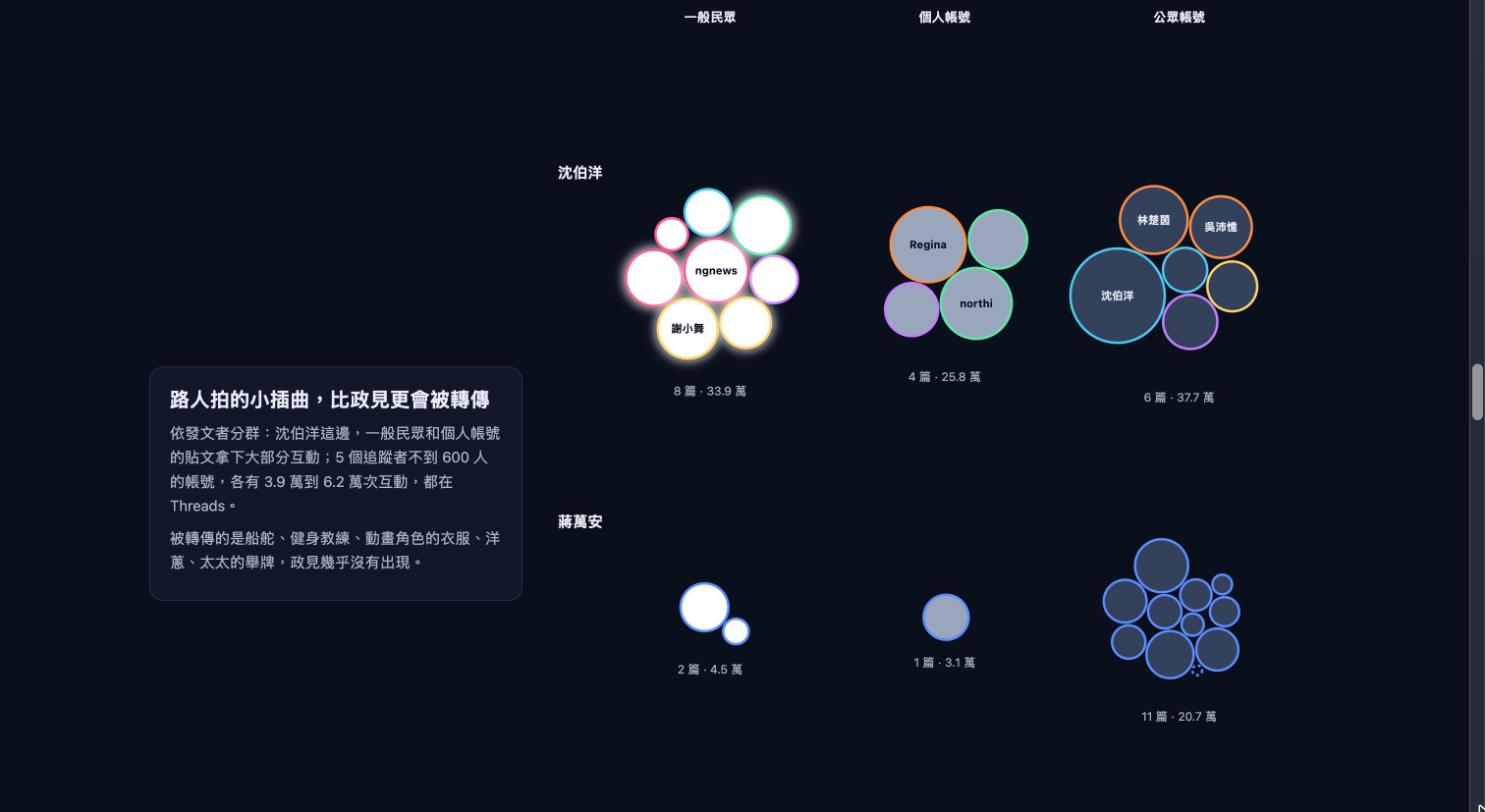
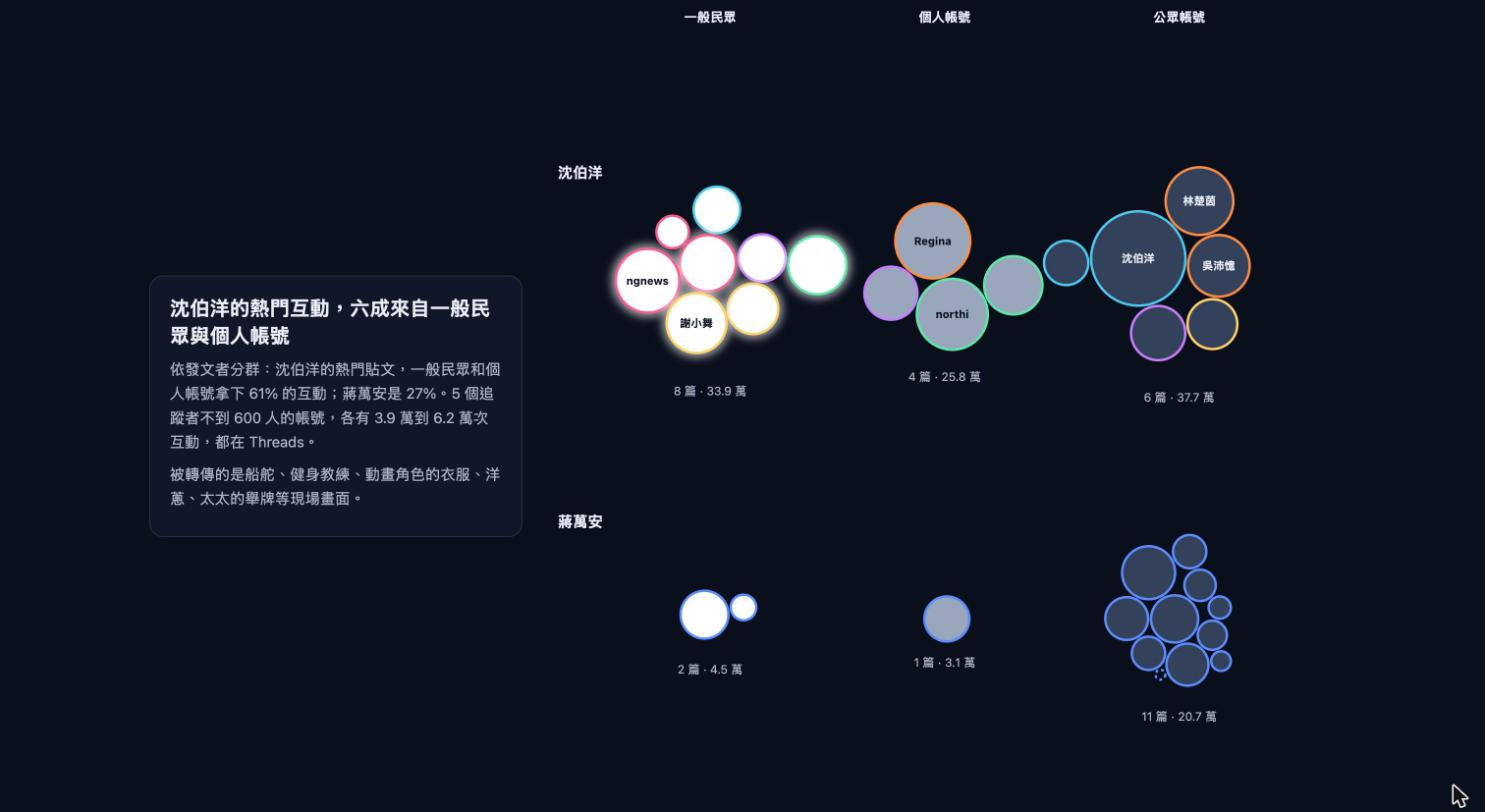
用字改為中性、倍數圖改對數刻度、探索區圖表編號
- 標題與敘事段落拿掉「只」「比政見更會被轉傳」等評價字眼，改寫成數字陳述；「重做」改為「重構」
- 當天 vs 前 3 天的啞鈴圖改用對數刻度，刻度每格 1.25 倍，線長對應倍數
- 探索區五張圖加上「圖 1」到「圖 5」，README 同步
- 截圖 03 換成新用字版本

diff --git a/index.html b/index.html
@@ -3,7 +3,7 @@
 <head>
 <meta charset="utf-8">
 <meta name="viewport" content="width=device-width,initial-scale=1">
-<title>台北大洋流：車掃熱度只延續兩三天｜新聞視覺化 HW3</title>
+<title>台北大洋流：車掃熱度約延續兩三天｜新聞視覺化 HW3</title>
 <link rel="icon" href="data:,">
 <link rel="stylesheet" href="styles.css">
 <script defer src="vendor/d3.v7.9.0.min.js"></script>
@@ -18,8 +18,8 @@
 <body>
 <main class="viz-root">
   <header class="page-head">
-    <p class="kicker">新聞視覺化 HW3 · 重做 QSearch〈街頭陸戰遇上網路空戰〉的圖表</p>
-    <h1>台北大洋流：<br>車掃熱度只延續兩三天，被轉傳的多是路人拍的小插曲</h1>
+    <p class="kicker">新聞視覺化 HW3 · 重構 QSearch〈街頭陸戰遇上網路空戰〉的圖表</p>
+    <h1>台北大洋流：<br>車掃熱度約延續兩三天，沈伯洋的熱門互動多來自一般民眾與個人帳號</h1>
     <p class="lead">沈伯洋 10/11–11/15 開著車隊跑了 6 場車掃，蔣萬安同期走夜市與市場。往下捲，看社群上的討論怎麼一波波流過台北。</p>
     <p class="scroll-hint" aria-hidden="true">往下捲 ↓</p>
   </header>
@@ -44,12 +44,12 @@
         <p><button type="button" class="replay-btn">↻ 重播</button></p>
       </article>
       <article class="story-step">
-        <h2>熱度只延續兩三天</h2>
-        <p>把 6 場都對齊到「車掃當天＝100%」：隔天大多還有當天的 7 到 10 成，3 天後只剩 2 到 3 成。</p>
+        <h2>熱度約延續兩三天</h2>
+        <p>把 6 場都對齊到「車掃當天＝100%」：隔天大多還有當天的 7 到 10 成，3 天後是 2 到 3 成。</p>
         <p>6 場車掃分散在五週裡，每一場都再把討論推高一次。要讓熱度不斷，得靠事件一波接一波。</p>
       </article>
       <article class="story-step">
-        <h2>車掃當天，總討論只多了 3%～27%</h2>
+        <h2>車掃當天，總討論是前 3 天的 1.03～1.27 倍</h2>
         <p>看所有「提到沈伯洋」的討論，車掃當天是前 3 天平均的 1.03 到 1.27 倍；沒有車掃的週末大約是 0.99 倍。</p>
         <p>10/31 中午有首場電視辯論、11/1 的前 3 天包含辯論日，這兩場分不出是辯論還是車掃帶動，不列入比較。</p>
       </article>
@@ -59,12 +59,12 @@
         <p>白色泡泡是一般民眾，加光暈的是追蹤者不到 600 人的帳號。外圈顏色是場次，藍色外圈是蔣萬安。</p>
       </article>
       <article class="story-step">
-        <h2>路人拍的小插曲，比政見更會被轉傳</h2>
-        <p>依發文者分群：沈伯洋的熱門貼文，一般民眾和個人帳號拿下 61% 的互動；蔣萬安只有 27%。5 個追蹤者不到 600 人的帳號，各有 3.9 萬到 6.2 萬次互動，都在 Threads。</p>
-        <p>被轉傳的是船舵、健身教練、動畫角色的衣服、洋蔥、太太的舉牌，政見幾乎沒有出現。</p>
+        <h2>沈伯洋的熱門互動，六成來自一般民眾與個人帳號</h2>
+        <p>依發文者分群：沈伯洋的熱門貼文，一般民眾和個人帳號拿下 61% 的互動；蔣萬安是 27%。5 個追蹤者不到 600 人的帳號，各有 3.9 萬到 6.2 萬次互動，都在 Threads。</p>
+        <p>被轉傳的是船舵、健身教練、動畫角色的衣服、洋蔥、太太的舉牌等現場畫面。</p>
       </article>
       <article class="story-step">
-        <h2>蔣萬安走夜市，討論被插曲牽動</h2>
+        <h2>蔣萬安走夜市，有 2 場隔天討論變多</h2>
         <p>藍色光點是蔣萬安的夜市、市場掃街。他的熱門貼文多是政治人物、評論者與媒體的攻防。</p>
         <p>7 場裡有 2 場隔天討論反而變多：10/27 內湖 737 夜市（隔天他身體不適、取消行程），11/6 遼寧夜市（走進挺沈伯洋的水餃店「又一村」引發爭議）。</p>
       </article>
@@ -85,7 +85,7 @@
 
     <section class="panel map-panel">
       <div class="map-col">
-        <h3>洋流地圖</h3>
+        <h3>圖 1　洋流地圖</h3>
         <p class="sub">點一塊看那場車掃的細節；按播放看每天的變化，或拖曳下方時間軸。藍色光點是蔣萬安的夜市、市場掃街。</p>
         <div class="chart" data-chart="map"></div>
       </div>
@@ -93,7 +93,7 @@
     </section>
 
     <section class="panel">
-      <h3>熱門貼文泡泡圖</h3>
+      <h3>圖 2　熱門貼文泡泡圖</h3>
       <p class="sub">沈伯洋每場取當天與隔天互動最高的 3 篇，蔣萬安每場取 2 篇。泡泡越大，互動越多；填色是發文者類型（白＝一般民眾、灰＝個人帳號、深＝公眾帳號），外圈是場次顏色，光暈是追蹤者不到 600 人。</p>
       <div class="grouping" role="group" aria-label="泡泡分群方式">
         <button type="button" data-grouping="type" aria-pressed="true">依發文者類型</button>
@@ -106,13 +106,13 @@
     </section>
 
     <section class="panel">
-      <h3>每天有多少和車掃有關的討論</h3>
+      <h3>圖 3　每天有多少和車掃有關的討論</h3>
       <p class="sub">沈伯洋掃街相關貼文，每日筆數（Threads、Facebook、新聞網站、YouTube 影片數）。線段顏色是最近一場車掃，圓點是車掃當天。</p>
       <div class="chart" data-chart="overview"></div>
     </section>
 
     <section class="panel">
-      <h3>把每一場對齊到「掃街當天」：隔天剩多少？</h3>
+      <h3>圖 4　把每一場對齊到「掃街當天」：隔天剩多少？</h3>
       <p class="sub">當天的筆數算 100%，畫前後各 3 天。兩人的查詢會重疊，只比起伏，不比高低。蔣萬安的掃街日期和沈伯洋的車掃對不上，他的小圖獨立選取。</p>
       <div class="facets">
         <div class="facet">
@@ -127,14 +127,14 @@
     </section>
 
     <section class="panel">
-      <h3>車掃當天，提到沈伯洋的討論比前 3 天多了多少？</h3>
-      <p class="sub">每列一場：空心點是前 3 天平均，實心點是車掃當天。沒有車掃的週末，當天平均是前 3 天的 0.99 倍（中位數），灰色兩場受辯論影響，不列入比較。</p>
+      <h3>圖 5　車掃當天，提到沈伯洋的討論比前 3 天多了多少？</h3>
+      <p class="sub">每列一場：空心點是前 3 天平均，實心點是車掃當天。橫軸是對數刻度，每一格是 1.25 倍；倍數相同的兩場，線一樣長。沒有車掃的週末，當天平均是前 3 天的 0.99 倍（中位數），灰色兩場受辯論影響，不列入比較。</p>
       <div class="chart" data-chart="lift"></div>
     </section>
 
     <section class="panel notes">
       <details>
-        <summary>原圖哪裡不好、這版怎麼改</summary>
+        <summary>原圖的問題與這版的改法</summary>
         <ol>
           <li><strong>原圖二（前 3 天 vs 當天長條圖）</strong>：重點是 1.03～1.27 倍，但長條從 0 畫起，差 3%～27% 看起來幾乎一樣高；最搶眼的反而是文章說不列入比較的 1.80 倍。這版改成點圖，只看兩點的距離，被排除的場次改成灰色並寫出原因。</li>
           <li><strong>原圖三（每日折線）</strong>：要講「熱度延續兩三天」，讀者卻得自己數高峰後每天掉多少；而且它和原圖四的上半張是同一條線。這版用洋流地圖播放每天的變化，並另做「對齊當天」的圖，直接看隔天、後天剩幾成。</li>

diff --git a/js/story.js b/js/story.js
@@ -86,18 +86,22 @@
     const height = liftEl.clientHeight;
     if (width < 200 || height < 200) return;
     const narrow = width < 600;
-    const m = { top: 90, right: narrow ? 110 : 140, bottom: 56, left: narrow ? 20 : 150 };
+    const m = { top: 104, right: narrow ? 110 : 140, bottom: 56, left: narrow ? 20 : 150 };
     const svg = d3.select(liftEl).selectAll('svg').data([null]).join('svg')
       .attr('viewBox', `0 0 ${width} ${height}`).attr('width', width).attr('height', height)
       .attr('role', 'img').attr('aria-label', '車掃當天提到沈伯洋的討論是前 3 天的 1.03 到 1.27 倍；10/31 與 11/1 受辯論影響不列入。');
     svg.selectAll('*').remove();
     svg.append('text').attr('class', 'stage-title').attr('x', narrow ? 20 : m.left).attr('y', 30).text('提到沈伯洋的總討論：當天 vs 前 3 天平均');
     svg.append('text').attr('class', 'stage-sub').attr('x', narrow ? 20 : m.left).attr('y', 54).text('空心＝前 3 天平均，實心＝車掃當天（筆／日，四平台合計）');
-    const x = d3.scaleLinear().domain([6000, 16000]).range([m.left, width - m.right]);
+    svg.append('text').attr('class', 'stage-sub').attr('x', narrow ? 20 : m.left).attr('y', 76).text('橫軸是對數刻度，每格 1.25 倍：倍數相同，線就一樣長');
+    // 對數刻度：線長對應「當天 ÷ 前 3 天」的倍數，不受該場原本討論量大小影響。
+    const x = d3.scaleLog().domain([6000, 16000]).range([m.left, width - m.right]);
+    // 刻度每格固定 1.25 倍（15,625 取整為 15,600），在對數刻度上等距。
+    const ticks = narrow ? [6400, 10000, 15600] : [6400, 8000, 10000, 12500, 15600];
     const rowH = (height - m.top - m.bottom) / H.sessions.length;
-    svg.append('g').attr('class', 'grid').selectAll('line').data(x.ticks(narrow ? 3 : 5)).join('line')
+    svg.append('g').attr('class', 'grid').selectAll('line').data(ticks).join('line')
       .attr('x1', (d) => x(d)).attr('x2', (d) => x(d)).attr('y1', m.top - 10).attr('y2', height - m.bottom);
-    svg.append('g').attr('class', 'axis').selectAll('text').data(x.ticks(narrow ? 3 : 5)).join('text')
+    svg.append('g').attr('class', 'axis').selectAll('text').data(ticks).join('text')
       .attr('x', (d) => x(d)).attr('y', height - m.bottom + 20).attr('text-anchor', 'middle').text((d) => H.fmt(d));
     const rows = svg.append('g').selectAll('g').data(H.sessions).join('g')
       .attr('transform', (s, i) => `translate(0,${m.top + i * rowH + rowH / 2})`);

diff --git a/js/explore.js b/js/explore.js
@@ -371,15 +371,17 @@
     const height = m.top + rows.length * rowH + m.bottom;
     const focus = H.active();
     const svg = freshSvg(elm, width, height, '6 場車掃當天與前 3 天平均的比較：可比較的 4 場是 1.03 到 1.27 倍，11/15 士林北投最多。10/31 與 11/1 受辯論影響，不列入比較。');
-    const x = d3.scaleLinear().domain([6000, 16000]).range([m.left, width - m.right]);
+    // 對數刻度：線長對應「當天 ÷ 前 3 天」的倍數，不受該場原本討論量大小影響。
+    const x = d3.scaleLog().domain([6000, 16000]).range([m.left, width - m.right]);
     const y = (i) => m.top + i * rowH + rowH / 2;
-    const ticks = x.ticks(narrow ? 3 : 5);
+    // 刻度每格固定 1.25 倍（15,625 取整為 15,600），在對數刻度上等距。
+    const ticks = narrow ? [6400, 10000, 15600] : [6400, 8000, 10000, 12500, 15600];
     svg.append('g').attr('class', 'grid').selectAll('line').data(ticks).join('line')
       .attr('x1', (d) => x(d)).attr('x2', (d) => x(d)).attr('y1', m.top).attr('y2', height - m.bottom);
     svg.append('g').attr('class', 'axis').selectAll('text').data(ticks).join('text')
       .attr('x', (d) => x(d)).attr('y', height - m.bottom + 16).attr('text-anchor', 'middle').text((d) => fmt(d));
     svg.append('text').attr('class', 'axis-title').attr('x', width - m.right).attr('y', height - 4)
-      .attr('text-anchor', 'end').text('提到沈伯洋的討論（筆／日，四平台合計）');
+      .attr('text-anchor', 'end').text(narrow ? '筆／日（對數刻度）' : '提到沈伯洋的討論（筆／日，四平台合計，對數刻度）');
     const row = svg.append('g').selectAll('g').data(rows).join('g')
       .attr('class', 'lift-row')
       .attr('transform', (d, i) => `translate(0,${y(i)})`)

diff --git a/js/bubbles.js b/js/bubbles.js
@@ -188,7 +188,7 @@
       const top = [...shen].sort((a, b) => b.post.interactions - a.post.interactions);
       const text = {
         map: '每顆泡泡是一篇熱門貼文，從它所屬的那場車掃（沈伯洋）或夜市（蔣萬安）冒出來；越大顆，互動越多。白色是一般民眾，加光暈的是追蹤者不到 600 人的帳號。',
-        type: `沈伯洋的 ${shen.length} 篇熱門貼文，一般民眾和個人帳號的貼文拿下 ${share(shen)}% 的互動；蔣萬安的 ${chiang.length} 篇只有 ${share(chiang)}%，多是政治人物、評論者與媒體的攻防。`,
+        type: `沈伯洋的 ${shen.length} 篇熱門貼文，一般民眾和個人帳號的貼文拿下 ${share(shen)}% 的互動；蔣萬安的 ${chiang.length} 篇是 ${share(chiang)}%，多是政治人物、評論者與媒體的攻防。`,
         session: `每場車掃最熱的 3 篇貼文。最大顆的是 ${H.md(top[0].post.date)} ${top[0].post.author}（${top[0].post.interactionsLabel}），其次是 ${H.md(top[1].post.date)} ${top[1].post.author}「${top[1].post.content.slice(0, 14)}…」（${top[1].post.interactionsLabel}）。`,
       }[o.grouping];
       o.headline.textContent = text;

diff --git a/README.md b/README.md
@@ -1,6 +1,6 @@
-# 台北大洋流：車掃熱度只延續兩三天，被轉傳的多是路人拍的小插曲
+# 台北大洋流：車掃熱度約延續兩三天，沈伯洋的熱門互動多來自一般民眾與個人帳號
 
-輔仁大學「資料分析與視覺化應用」HW3 · News visualization。找一篇有資料視覺化的文章，指出原圖的缺點，再用 D3.js 改良重做。
+輔仁大學「資料分析與視覺化應用」HW3 · News visualization。找一篇有資料視覺化的文章，指出原圖的缺點，再用 D3.js 改良重構。
 
 - **組員**：415085047 嚴庭亞、415085011 張凱富、410262690 陳予璇
 - **原文**：QSearch〈[街頭陸戰遇上網路空戰：沈伯洋車掃、蔣萬安走夜市，社群在聊什麼？](https://www.qsearch.cc/blog/2026/11/2026-taipei-mayoral-street-campaign-social-volume/)〉（2026/11/17）
@@ -27,7 +27,7 @@
 | 原圖 | 問題 |
 |---|---|
 | [圖二](https://storage.googleapis.com/best-life.appspot.com/1/2026/11/image-13.png)：前 3 天平均 vs 車掃當天的長條圖 | 重點是 1.03～1.27 倍，但長條從 0 畫起，差 3%～27% 看起來幾乎一樣高。整張圖最搶眼的是 1.80 倍那根，偏偏它是文章說「不列入比較」的場次。最重要的對照組（沒車掃的週末是 0.99 倍）沒有畫出來。 |
-| [圖三](https://storage.googleapis.com/best-life.appspot.com/1/2026/11/image-9.png)：掃街討論每日折線 | 要講「熱度只延續兩三天」，讀者卻得自己數高峰後每天掉多少；7～10 成、2～3 成這些數字只寫在內文。這張圖和圖四的上半張是同一條線。 |
+| [圖三](https://storage.googleapis.com/best-life.appspot.com/1/2026/11/image-9.png)：掃街討論每日折線 | 要講「熱度延續兩三天」，讀者卻得自己數高峰後每天掉多少；7～10 成、2～3 成這些數字只寫在內文。這張圖和圖四的上半張是同一條線。 |
 | [圖四](https://storage.googleapis.com/best-life.appspot.com/1/2026/11/image-10.png)：沈、蔣上下兩張折線 | 兩張刻度不同，場次標籤擠在一起。蔣萬安的重點是「有 2 場隔天反而變多」，圖上看不出來。 |
 | 兩張熱門貼文表 | 結論是「沈伯洋這邊多是一般民眾、蔣萬安這邊多是政治人物與媒體」，但 32 列文字要讀者自己數。 |
 
@@ -41,10 +41,10 @@
 
 1. **6 場車掃走遍台北 12 區**：台北市地圖依 6 場車掃分成 6 塊，每場一種顏色。
 2. **洋流地圖播放**（參考 Facebook Friendship 發光地圖）：時間從 10/1 跑到 11/16，每天的掃街討論量決定亮度，畫在最近一場車掃的那兩區，區內有流動的波紋；車掃那天亮起來，幾天後退掉。下方的走勢線可以拖曳。
-3. **熱度只延續兩三天**：6 場對齊到「當天＝100%」，線條依序畫出，標出文章說的「隔天 7～10 成」「3 天後 2～3 成」。
-4. **車掃當天比前 3 天多了多少**（取代原圖二）：點從「前 3 天平均」滑到「車掃當天」，受辯論影響的兩場是灰色。
+3. **熱度約延續兩三天**：6 場對齊到「當天＝100%」，線條依序畫出，標出文章說的「隔天 7～10 成」「3 天後 2～3 成」。
+4. **車掃當天比前 3 天多了多少**（取代原圖二）：點從「前 3 天平均」滑到「車掃當天」，受辯論影響的兩場是灰色。橫軸用對數刻度、每格 1.25 倍，線的長度直接對應倍數，不會因為某場原本討論量大就顯得比較長。
 5. **被轉傳的是什麼**（參考 g0v 政治獻金泡泡圖）：每篇熱門貼文一顆泡泡，從所屬的車掃區（或蔣萬安的夜市）冒出來。
-6. **路人拍的小插曲比政見更會被轉傳**：泡泡用物理模擬飛到「候選人 × 發文者類型」的群組，算出沈伯洋的熱門貼文有 61% 的互動來自一般民眾和個人帳號，蔣萬安只有 27%。
+6. **沈伯洋的熱門互動，六成來自一般民眾與個人帳號**：泡泡用物理模擬飛到「候選人 × 發文者類型」的群組，算出沈伯洋的熱門貼文有 61% 的互動來自一般民眾和個人帳號，蔣萬安是 27%。
 7. **蔣萬安走夜市**：地圖淡出沈伯洋的場次，亮起蔣萬安的夜市光點。
 8. **聲量不等於選票**：資料限制。
 
@@ -52,9 +52,9 @@
 
 在上方場次按鈕、地圖區塊、泡泡、總覽圓點、對齊圖的線、點圖的列，任何一處點一場沈伯洋車掃，全部的圖都會固定標出這一場；只是滑過去，其他圖會暫時預覽那一場。
 
-- **洋流地圖＋詳細資料卡**：點一塊，旁邊的卡片顯示這一場的路線、同行者、被記住的畫面、高頻詞、當天筆數、隔天與 3 天後剩幾成、當天 vs 前 3 天的倍數，以及互動最高的 3 篇貼文。地圖可以播放或拖曳時間。
-- **熱門貼文泡泡圖**：可切換「依發文者類型」「依場次」「依地點」分群。泡泡大小是互動數，填色是發文者類型（白＝一般民眾、灰＝個人帳號、深＝公眾帳號），外圈是場次顏色，光暈是追蹤者不到 600 人。點沈伯洋的貼文會切到那一場。
-- **每天的掃街討論**（總覽）、**對齊掃街當天**（取代原圖三、四，沈、蔣用同一個百分比刻度）、**當天 vs 前 3 天**（取代原圖二）。
+- **圖 1　洋流地圖＋詳細資料卡**：點一塊，旁邊的卡片顯示這一場的路線、同行者、被記住的畫面、高頻詞、當天筆數、隔天與 3 天後剩幾成、當天 vs 前 3 天的倍數，以及互動最高的 3 篇貼文。地圖可以播放或拖曳時間。
+- **圖 2　熱門貼文泡泡圖**：可切換「依發文者類型」「依場次」「依地點」分群。泡泡大小是互動數，填色是發文者類型（白＝一般民眾、灰＝個人帳號、深＝公眾帳號），外圈是場次顏色，光暈是追蹤者不到 600 人。點沈伯洋的貼文會切到那一場。
+- **圖 3　每天的掃街討論**（總覽）、**圖 4　對齊掃街當天**（取代原圖三、四，沈、蔣用同一個百分比刻度）、**圖 5　當天 vs 前 3 天**（取代原圖二）。
 
 **操作方式**：滑鼠滑過看數字並預覽場次；點來選場次，點「全部場次」取消；鍵盤可用 Tab 移到各個按鈕、區塊、泡泡，按 Enter 或空白鍵選取；在對齊小圖上按左右鍵切換場次。最下方的「看資料表」列出所有數字。
 

diff --git a/HANDOFF.md b/HANDOFF.md
@@ -1,6 +1,6 @@
 # HW3 組員交接
 
-**題目已更換**：第一版（TPOC「洋流」動員公文）移到 `archive/tpoc-yangliu/`。現在的題目是重做 QSearch〈街頭陸戰遇上網路空戰〉的圖表，說明見 [README.md](README.md)。
+**題目已更換**：第一版（TPOC「洋流」動員公文）移到 `archive/tpoc-yangliu/`。現在的題目是重構 QSearch〈街頭陸戰遇上網路空戰〉的圖表，說明見 [README.md](README.md)。
 
 **接手起點**　線上版：<https://victorien1963.github.io/1151VIS-HW3-415085047-YEN-TING-YA-415085011-CHANG-KAI-FU-410262690-CHEN-YU-HSUAN/>。要改程式就下載整個 repo、解壓，雙擊 `index.html`。上半是捲動敘事（往下捲就會換圖），下半是「自己探索」，可以直接拿來截圖、錄影。
 
